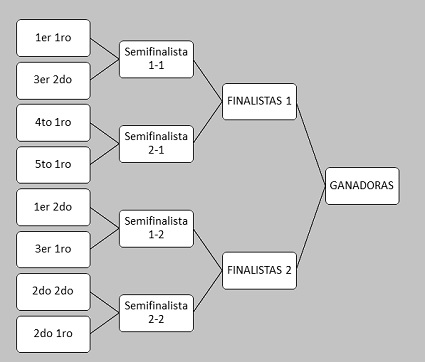
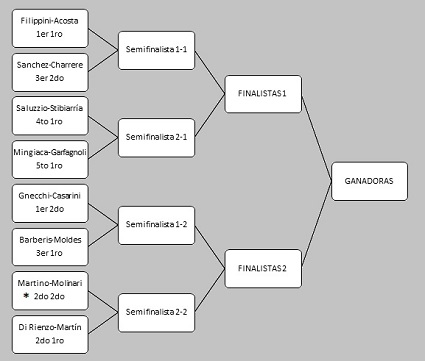
cuadros domingo

Changed region(s): [[0.0, 0.0, 0.7341, 1.0], [0.2447, 0.0609, 0.9788, 0.6399]]

diff --git a/B2.html b/B2.html
@@ -129,7 +129,7 @@
                     <th>RESULTADO</th>
                 </tr>
                 <tr>
-                    <td>10:30</td>
+                    < td>10:30</td>
                     <td>Novarese-Ángel / Barberis-Moldes</td>
                     <td><a href="https://goo.gl/maps/afc4c8Wqit459Mev5">Club Defensores de Belgrano de Villa Ramallo</a> - cancha 2</td>
                     <td>1-6 4-6</td>
@@ -144,7 +144,7 @@
                     <td>18:00</td>
                     <td>Barberis-Moldes / Pistolesi-Fabry</td>
                     <td><a href="https://goo.gl/maps/afc4c8Wqit459Mev5">Club Defensores de Belgrano de Villa Ramallo</a> - cancha 2</td>
-                    <td>-</td>
+                    <td>6-3 6-1</td>
                 </tr>
             </table>
         </div>
@@ -173,7 +173,7 @@
                     <td>14:30</td>
                     <td>Martino-Molinari / Bozzo-Strazaboschi</td>
                     <td><a href="https://goo.gl/maps/5eQpFEqpCiuZ1v4C6">Club Náutico y Pescadores de Ramallo</a> - cancha 2</td>
-                    <td>-</td>
+                    <td>6-3 6-1</td>
                 </tr>
             </table>
         </div>
@@ -202,7 +202,7 @@
                     <td>14:30</td>
                     <td>Di Rienzo-Martín / Salazar-Giorgiadis</td>
                     <td><a href="https://goo.gl/maps/5eQpFEqpCiuZ1v4C6">Club Náutico y Pescadores de Ramallo</a> - cancha 1</td>
-                    <td>-</td>
+                    <td>6-4 6-2</td>
                 </tr>
             </table>
         </div>
@@ -232,7 +232,7 @@
                         <td>16:00</td>
                         <td>Mingiacca-Garfagnoli / Correa-Ventana</td>
                         <td><a href="https://goo.gl/maps/5eQpFEqpCiuZ1v4C6">Club Náutico y Pescadores de Ramallo</a> - cancha 1</td>
-                        <td>-</td>
+                        <td>6-0 2-6 10-7</td>
                     </tr>
                 </table>
         </div>
@@ -241,6 +241,8 @@
             <h2>Copa de Oro</h2>
             <img src="orob2.jpg">
         </div>
+        <p>*Martino-Molinari debía cruzarse con Filippini-Acosta por clasificar como tercer segundo, 
+            pero al compartir zona intercambian lugar con el segundo segundo</p>
         <div class="diagrama">
             <table>
                 <tr>
@@ -253,28 +255,28 @@
                 <tr>
                     <td>CUARTOS DE FINAL 1 - 1</td>
                     <td>10:30</td>
-                    <td>-</td>
+                    <td>Filippini-Acosta / Sanchez-Charrere</td>
                     <td><a href="https://goo.gl/maps/afc4c8Wqit459Mev5">Club Defensores de Belgrano de Villa Ramallo</a></td>
                     <td>-</td>
                 </tr>
                 <tr>
                     <td>CUARTOS DE FINAL 2 - 1</td>
                     <td>10:30</td>
-                    <td>-</td>
+                    <td>Saluzzio-Estibiarria / Mingiacca-Garfagnoli</td>
                     <td><a href="https://goo.gl/maps/pA33AroE6qyL9qW58">Club Los Andes de Villa Ramallo</a></td>
                     <td>-</td>
                 </tr>
                 <tr>
                     <td>CUARTOS DE FINAL 1 - 2</td>
                     <td>10:30</td>
-                    <td>-</td>
+                    <td>Gnecchi-Casarini / Barberis-Moldes</td>
                     <td><a href="https://goo.gl/maps/6AnQf56DQEeYe31KA">Ramallo Tenis</a></td>
                     <td>-</td>
                 </tr>
                 <tr>
                     <td>CUARTOS DE FINAL 2 - 2</td>
                     <td>10:30</td>
-                    <td>-</td>
+                    <td>Martino-Molinari / Di Rienzo-Martín</td>
                     <td><a href="https://goo.gl/maps/5eQpFEqpCiuZ1v4C6">Club Náutico y Pescadores de Ramallo</a></td>
                     <td>-</td>
                 </tr>
@@ -318,28 +320,28 @@
                 <tr>
                     <td>CUARTOS DE FINAL 1 - 1</td>
                     <td>9:00</td>
-                    <td>-</td>
+                    <td>Veglio-Nasurdi / Pistolesi-Fabry</td>
                     <td><a href="https://goo.gl/maps/afc4c8Wqit459Mev5">Club Defensores de Belgrano de Villa Ramallo</a></td>
                     <td>-</td>
                 </tr>
                 <tr>
                     <td>CUARTOS DE FINAL 2 - 1</td>
                     <td>9:00</td>
-                    <td>-</td>
+                    <td>Salazar-Giorgiadis / Correa-Ventana</td>
                     <td><a href="https://goo.gl/maps/pA33AroE6qyL9qW58">Club Los Andes de Villa Ramallo</a></td>
                     <td>-</td>
                 </tr>
                 <tr>
                     <td>CUARTOS DE FINAL 1 - 2</td>
                     <td>9:00</td>
-                    <td>-</td>
+                    <td>Bozzo-Strazaboschi / Novarese-Ángel</td>
                     <td><a href="https://goo.gl/maps/pA33AroE6qyL9qW58">Club Los Andes de Villa Ramallo</a></td>
                     <td>-</td>
                 </tr>
                 <tr>
                     <td>SEMIFINAL 1</td>
                     <td>12:00</td>
-                    <td>-</td>
+                    <td>Peña-Martín / -</td>
                     <td><a href="https://goo.gl/maps/5eQpFEqpCiuZ1v4C6">Club Náutico y Pescadores de Ramallo</a></td>
                     <td>-</td>
                 </tr>

diff --git a/C.html b/C.html
@@ -119,7 +119,7 @@
                     <td>15:00</td>
                     <td>Poggi-Tonelli / García Cano-Suárez</td>
                     <td><a href="https://goo.gl/maps/pA33AroE6qyL9qW58">Club Los Andes de Villa Ramallo</a> - cancha 2</td>
-                    <td>-</td>
+                    <td>6-4 4-6 10-3</td>
                 </tr>
             </table>
         </div>
@@ -183,7 +183,7 @@
                     <td>18:00</td>
                     <td>Espíndola-Pagnanini / Cordisco-Fernandez</td>
                     <td><a href="https://goo.gl/maps/pA33AroE6qyL9qW58">Club Los Andes de Villa Ramallo</a> - cancha 1</td>
-                    <td>-</td>
+                    <td>6-3 6-3</td>
                 </tr>
             </table>
         </div>
@@ -212,7 +212,7 @@
                     <td>16:30</td>
                     <td>Mayer-Marcili / Tassi-Escobar</td>
                     <td><a href="https://goo.gl/maps/afc4c8Wqit459Mev5">Club Defensores de Belgrano de Villa Ramallo</a> - cancha 2</td>
-                    <td>-</td>
+                    <td>6-3 6-0</td>
                 </tr>
             </table>
         </div>
@@ -242,7 +242,7 @@
                         <td>16:00</td>
                         <td>Azcarate-Grassetti / Seccone-Seccone</td>
                         <td><a href="https://goo.gl/maps/5eQpFEqpCiuZ1v4C6">Club Náutico y Pescadores de Ramallo</a> - cancha 2</td>
-                        <td>-</td>
+                        <td>2-6 3-6</td>
                     </tr>
                 </table>
         </div>
@@ -251,6 +251,8 @@
             <h2>Copa de Oro</h2>
             <img src="oroC.jpg">
         </div>
+        <p>*Benitez-Campagnolo debía cruzarse con Sanchez-Denardi por clasificar como primer segundo, 
+            pero al compartir zona intercambian lugar con el segundo segundo</p>
         <div class="diagrama">
             <table>
                 <tr>
@@ -263,28 +265,28 @@
                 <tr>
                     <td>CUARTOS DE FINAL 1 - 1</td>
                     <td>10:30</td>
-                    <td>-</td>
+                    <td>Seccone-Seccone / Cordisco-Fernandez</td>
                     <td><a href="https://goo.gl/maps/afc4c8Wqit459Mev5">Club Defensores de Belgrano de Villa Ramallo</a></td>
                     <td>-</td>
                 </tr>
                 <tr>
                     <td>CUARTOS DE FINAL 2 - 1</td>
                     <td>10:30</td>
-                    <td>-</td>
+                    <td>Mayer-Marcili / Poggi-Tonelli</td>
                     <td><a href="https://goo.gl/maps/pA33AroE6qyL9qW58">Club Los Andes de Villa Ramallo</a></td>
                     <td>-</td>
                 </tr>
                 <tr>
                     <td>CUARTOS DE FINAL 1 - 2</td>
                     <td>10:30</td>
-                    <td>-</td>
+                    <td>Dimanghene-Valles / Sanchez-Denardi</td>
                     <td><a href="https://goo.gl/maps/6AnQf56DQEeYe31KA">Ramallo Tenis</a></td>
                     <td>-</td>
                 </tr>
                 <tr>
                     <td>CUARTOS DE FINAL 2 - 2</td>
                     <td>10:30</td>
-                    <td>-</td>
+                    <td>Benitez-Campagnolo / Espíndola-Pagnanini</td>
                     <td><a href="https://goo.gl/maps/5eQpFEqpCiuZ1v4C6">Club Náutico y Pescadores de Ramallo</a></td>
                     <td>-</td>
                 </tr>
@@ -328,28 +330,28 @@
                 <tr>
                     <td>CUARTOS DE FINAL 1 - 1</td>
                     <td>9:00</td>
-                    <td>-</td>
+                    <td>Gigliani-Velázquez / Pistolesi-Matteo</td>
                     <td><a href="https://goo.gl/maps/6AnQf56DQEeYe31KA">Ramallo Tenis</a></td>
                     <td>-</td>
                 </tr>
                 <tr>
                     <td>CUARTOS DE FINAL 2 - 1</td>
                     <td>9:00</td>
-                    <td>-</td>
+                    <td>Veglio-Saltalegio / Tassi-Escobar</td>
                     <td><a href="https://goo.gl/maps/6AnQf56DQEeYe31KA">Ramallo Tenis</a></td>
                     <td>-</td>
                 </tr>
                 <tr>
                     <td>CUARTOS DE FINAL 1 - 2</td>
                     <td>9:00</td>
-                    <td>-</td>
+                    <td>Montefiore-Carenzo / García Cano-Suárez</td>
                     <td><a href="https://goo.gl/maps/5eQpFEqpCiuZ1v4C6">Club Náutico y Pescadores de Ramallo</a></td>
                     <td>-</td>
                 </tr>
                 <tr>
                     <td>CUARTOS DE FINAL 2 - 2</td>
                     <td>9:00</td>
-                    <td>-</td>
+                    <td>Marino-Quirinch / Azcarate-Grassetti</td>
                     <td><a href="https://goo.gl/maps/5eQpFEqpCiuZ1v4C6">Club Náutico y Pescadores de Ramallo</a></td>
                     <td>-</td>
                 </tr>

diff --git a/B1.html b/B1.html
@@ -92,7 +92,7 @@
                     <td>16:30</td>
                     <td>Pisani-Pérez / Giosa-Depiante</td>
                     <td><a href="https://goo.gl/maps/pA33AroE6qyL9qW58">Club Los Andes de Villa Ramallo</a> - cancha 2</td>
-                    <td>-</td>
+                    <td>6-4 6-7 10-3</td>
                 </tr>
               
             </table>
@@ -116,13 +116,13 @@
                     <td>16:30</td>
                     <td>Saucedo-Lascialandare / Olveira-Gabrich</td>
                     <td><a href="https://goo.gl/maps/pA33AroE6qyL9qW58">Club Los Andes de Villa Ramallo</a> - cancha 1</td>
-                    <td>-</td>
+                    <td>6-1 6-4</td>
                 </tr>
                 <tr>
                     <td>18:30</td>
                     <td>Saucedo-Lascialandare / Gonzalez Pacin-Ortega </td>
                     <td><a href="https://goo.gl/maps/afc4c8Wqit459Mev5">Club Defensores de Belgrano de Villa Ramallo</a> - cancha 1</td>
-                    <td>-</td>
+                    <td>5-7 3-6</td>
                 </tr>
             </table>
         </div>
@@ -172,21 +172,21 @@
                 <tr>
                     <td>CUARTOS DE FINAL</td>
                     <td>9:00</td>
-                    <td>-</td>
+                    <td>Giosa-Depiante / Gnecchi-Leguizamón</td>
                     <td><a href="https://goo.gl/maps/afc4c8Wqit459Mev5">Club Defensores de Belgrano de Villa Ramallo</a></td>
                     <td>-</td>
                 </tr>
                 <tr>
                     <td>SEMIFINAL 1</td>
                     <td>12:00</td>
-                    <td>-</td>
+                    <td>- / Gonzalez Pacin-Ortega</td>
                     <td><a href="https://goo.gl/maps/afc4c8Wqit459Mev5">Club Defensores de Belgrano de Villa Ramallo</a></td>
                     <td>-</td>
                 </tr>
                 <tr>
                     <td>SEMIFINAL 2</td>
                     <td>12:00</td>
-                    <td>-</td>
+                    <td>Pisani-Pérez / Dalarmelina-Álvaro</td>
                     <td><a href="https://goo.gl/maps/pA33AroE6qyL9qW58">Club Los Andes de Villa Ramallo</a></td>
                     <td>-</td>
                 </tr>
@@ -216,14 +216,14 @@
                 <tr>
                     <td>SEMIFINAL 1</td>
                     <td>12:00</td>
-                    <td>-</td>
+                    <td>Saucedo-Lascialandare / Tabellone-Macarroni</td>
                     <td><a href="https://goo.gl/maps/pA33AroE6qyL9qW58">Club Los Andes de Villa Ramallo</a></td>
                     <td>-</td>
                 </tr>
                 <tr>
                     <td>SEMIFINAL 2</td>
                     <td>12:00</td>
-                    <td>-</td>
+                    <td>Olveira-Gabrich / Nuñez-Pereyra</td>
                     <td><a href="https://goo.gl/maps/afc4c8Wqit459Mev5">Club Defensores de Belgrano de Villa Ramallo</a></td>
                     <td>-</td>
                 </tr>
